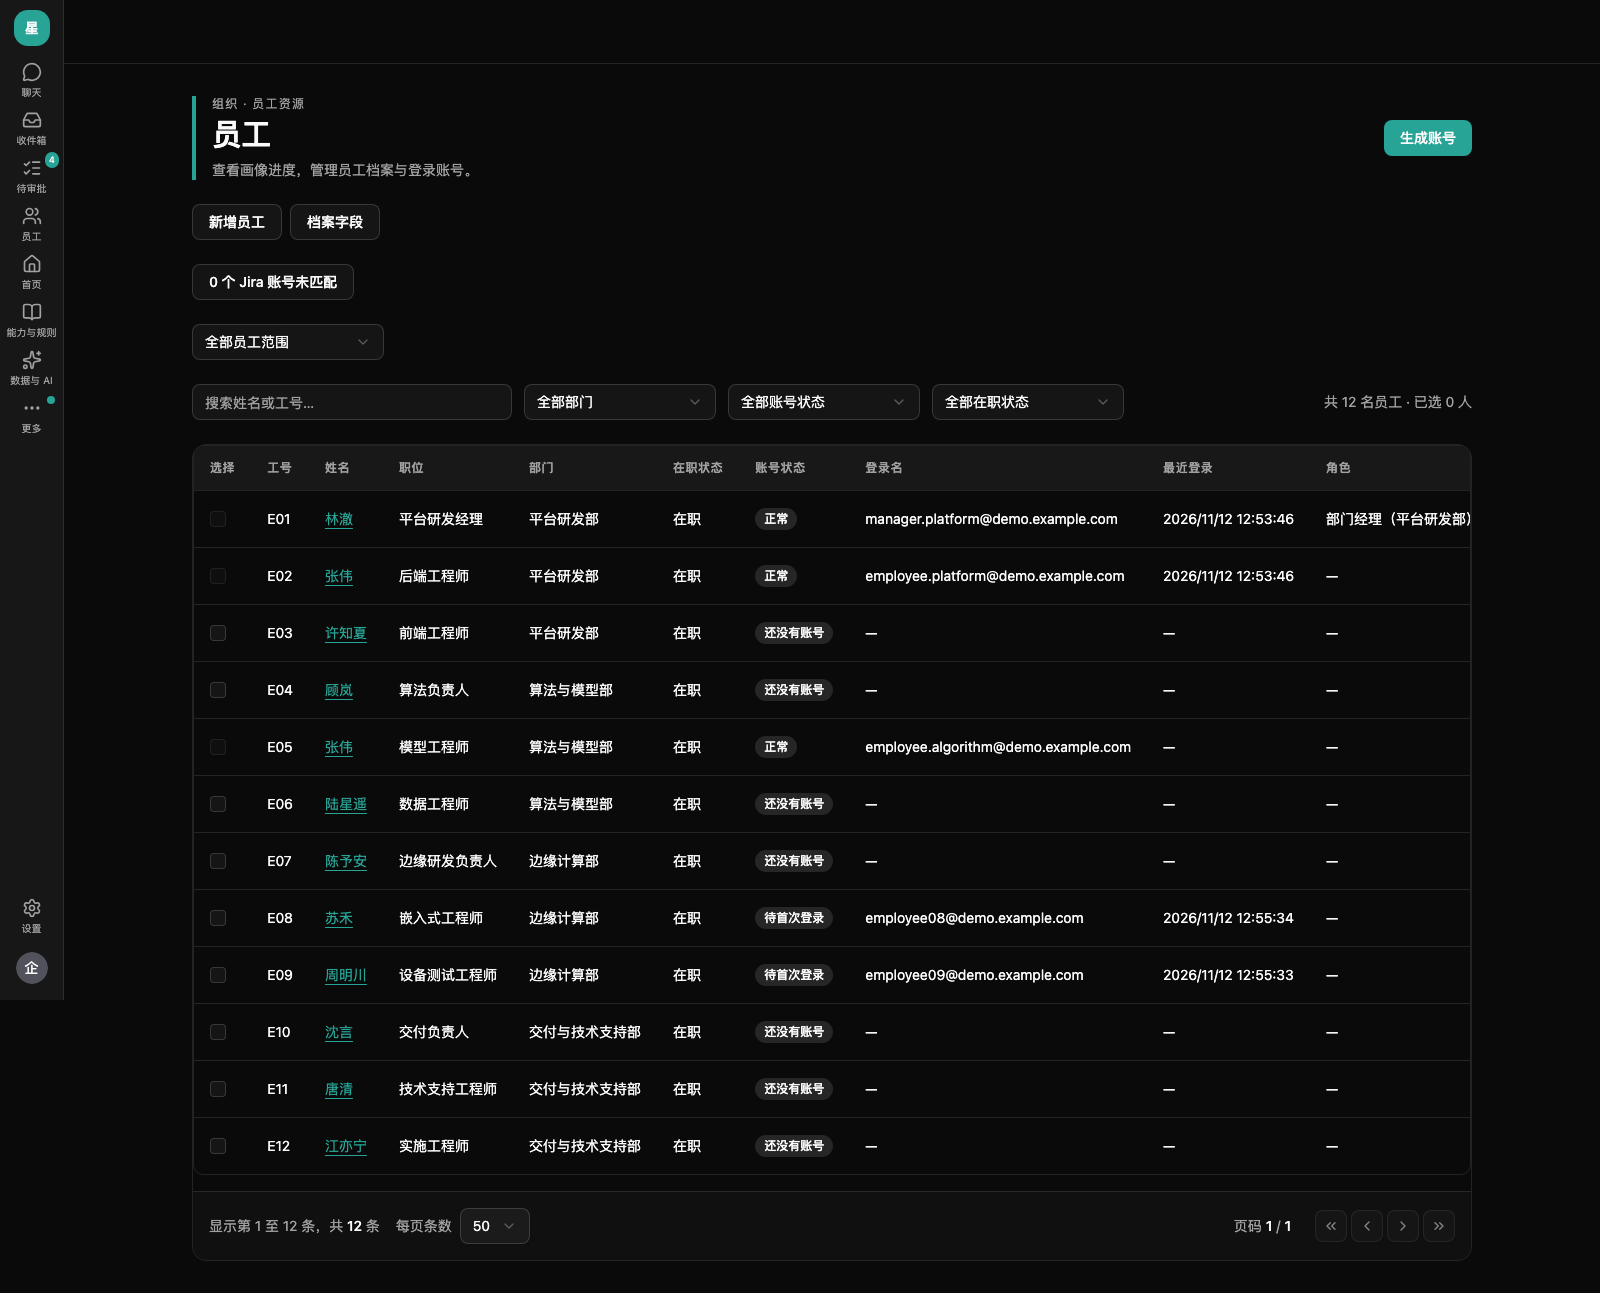
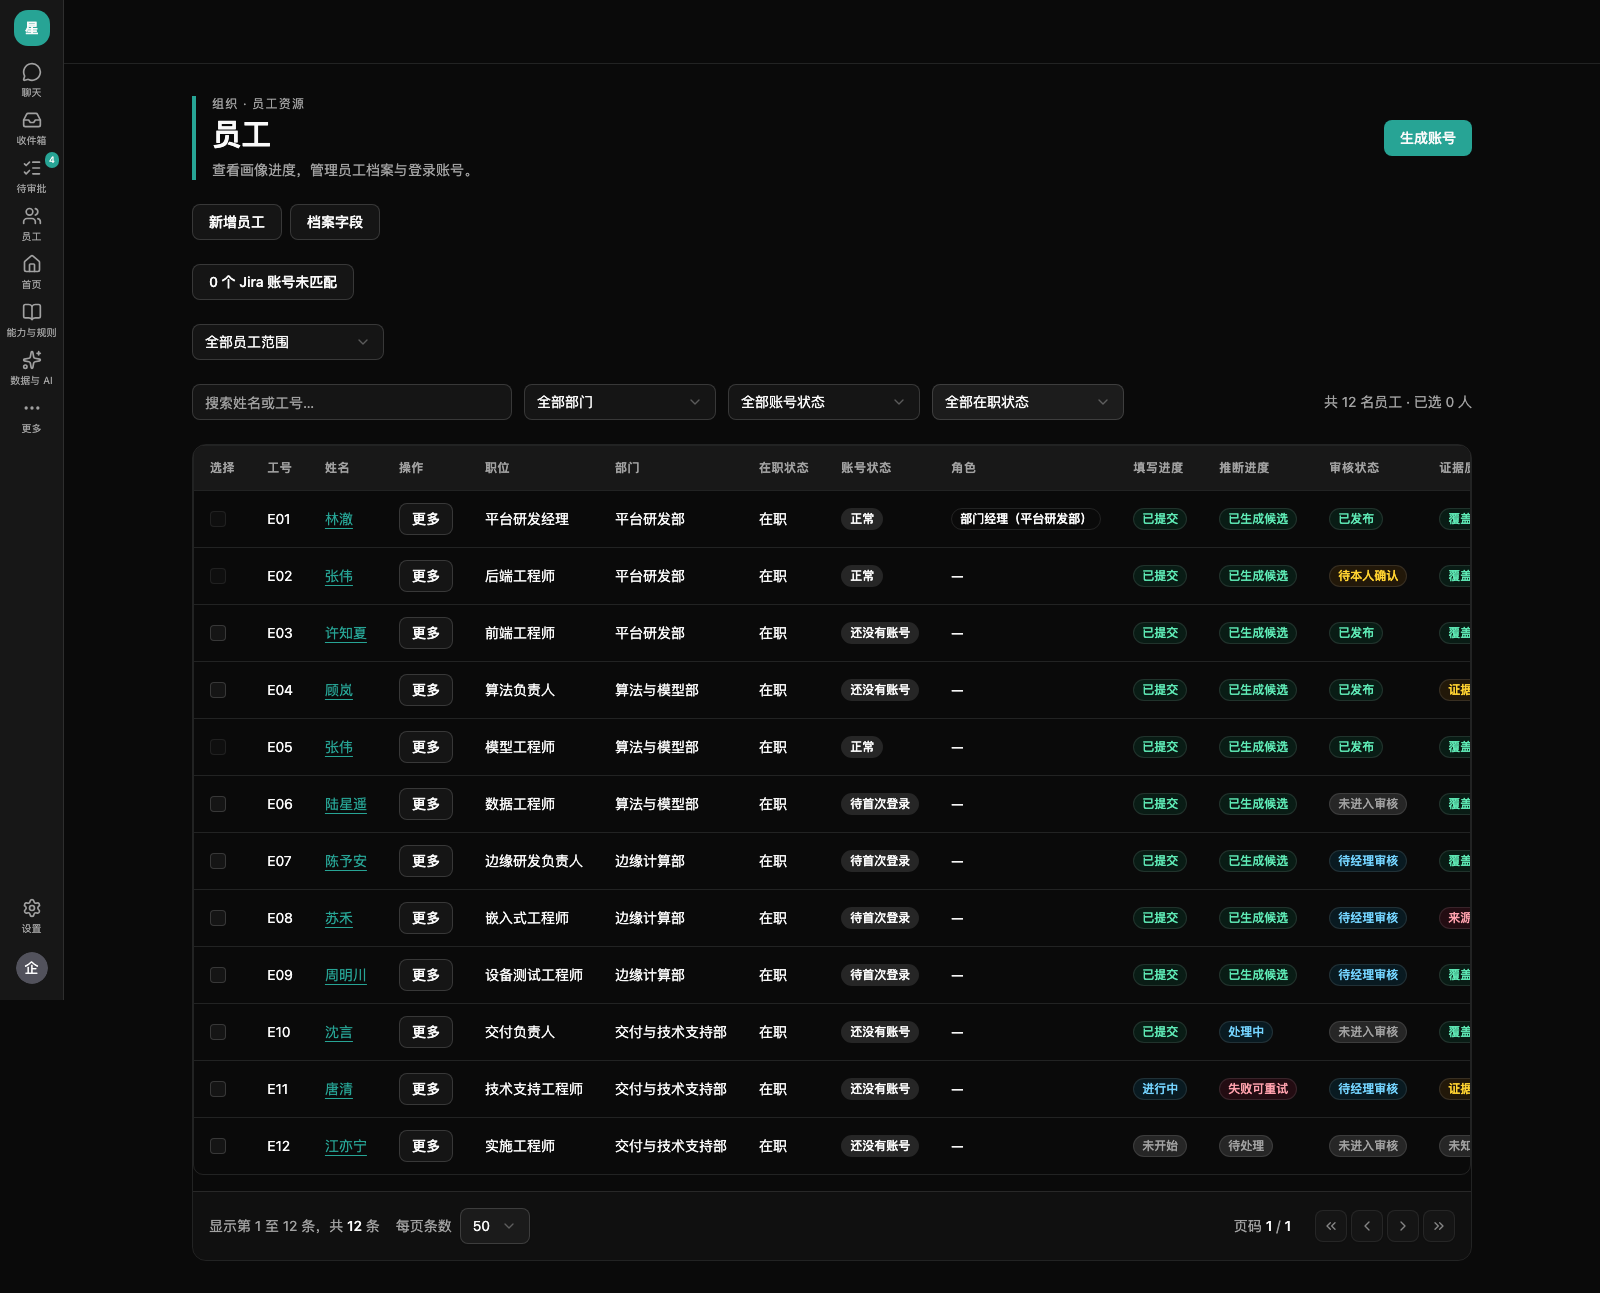
Verify menu focus, employee filters and manual management flows

diff --git a/frontend/tests/admin-manual-fallback.spec.ts b/frontend/tests/admin-manual-fallback.spec.ts
@@ -16,8 +16,6 @@ test("manual console completes all fifteen tabs without a model", async ({
   test.setTimeout(240000)
   const suffix = crypto.randomUUID()
   const email = `manual-${suffix}@example.com`
-  const employeeEmail = (code: string) =>
-    `${code}+${suffix}@qiguang-aiot.example.com`
   const password = "synthetic-password-2026"
   const setupToken = await request.post("/api/v1/private/setup-tokens", {
     data: { purpose: "new_org" },
@@ -145,15 +143,16 @@ test("manual console completes all fifteen tabs without a model", async ({
       .first()
       .click()
     await page.reload()
-    const manager = page
-      .getByRole("row")
-      .filter({ hasText: employeeEmail("qg002") })
+    const manager = page.getByRole("region", {
+      name: "账号与角色",
+      exact: true,
+    })
     await expect(manager).toContainText("部门经理")
     await manager.getByRole("button", { name: "撤销角色", exact: true }).click()
     await dialog
       .getByRole("button", { name: "确认撤销角色", exact: true })
       .click()
-    await expect(manager).toHaveCount(0)
+    await expect(manager).toContainText("暂无管理角色")
   })
 
   await test.step("rules / dictionary: publish an imported dictionary", async () => {

diff --git a/frontend/src/components/Admin/AccountTable.tsx b/frontend/src/components/Admin/AccountTable.tsx
@@ -99,6 +99,11 @@ export function AccountTable({
       ),
     },
     {
+      id: "actions",
+      header: "操作",
+      cell: actions,
+    },
+    {
       accessorKey: "title",
       header: "职位",
       cell: ({ row }) => row.original.title ?? "—",
@@ -167,11 +172,6 @@ export function AccountTable({
           ? tenureLabel(row.original.hire_date)
           : (row.original[field] ?? "—"),
     })),
-    {
-      id: "actions",
-      header: "操作",
-      cell: actions,
-    },
   ]
   return (
     <div className="overflow-x-auto rounded-xl border">

diff --git a/frontend/tests/employees.spec.ts b/frontend/tests/employees.spec.ts
@@ -42,6 +42,7 @@ test("demo admin sees all employees, filters, searches and paginates", async ({
     .getByRole("dialog")
     .getByRole("button", { name: "关闭", exact: true })
     .click()
+  await expect(page.getByRole("dialog")).toBeHidden()
   await page.screenshot({
     path: "../docs/screenshots/m4.2/employees-admin.png",
     fullPage: true,
